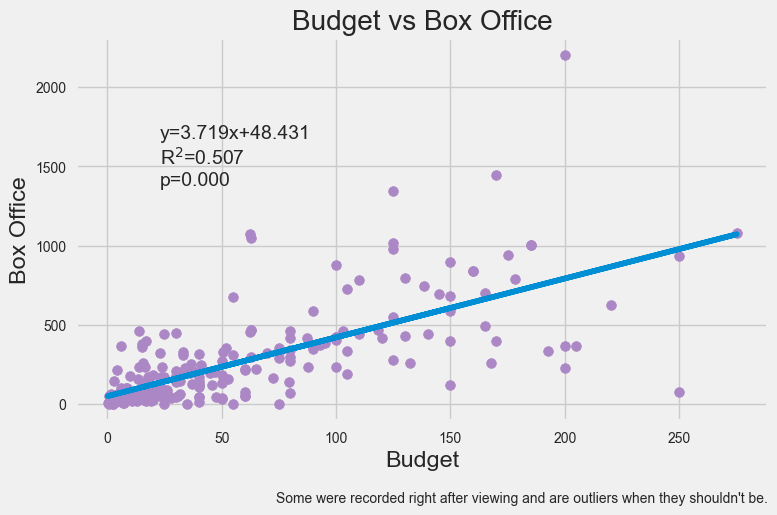
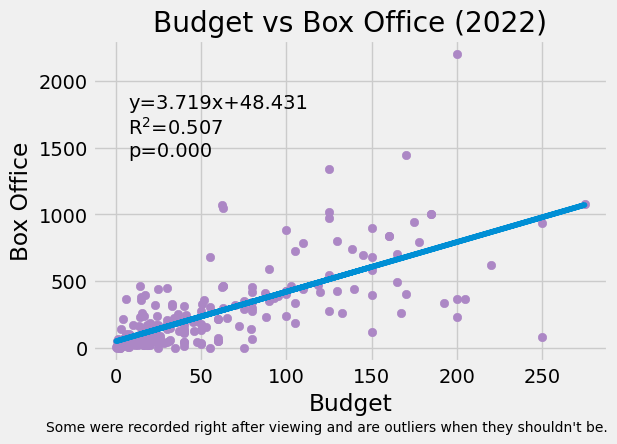
Budget vs Box Office graphs updated

diff --git a/movie_results.py b/movie_results.py
@@ -49,8 +49,8 @@ def main(inputFilePath, year):
 def budgetBoxOffice(inputFilePath, df, year):
     #! the dot at the top of the plot is the movie Titanic
     budgetColumn = df["Budget (mil)"].to_numpy()
-    boxOfficeColumn = df["Box Office"].to_numpy()
-
+    boxOfficeColumn = df["Box Office"]
+    boxOfficeColumn = pd.to_numeric(boxOfficeColumn, errors="coerce").to_numpy()
     mask = ~np.isnan(budgetColumn) & ~np.isnan(boxOfficeColumn)
     newBudget = budgetColumn[mask]
     newBoxOffice = boxOfficeColumn[mask]
